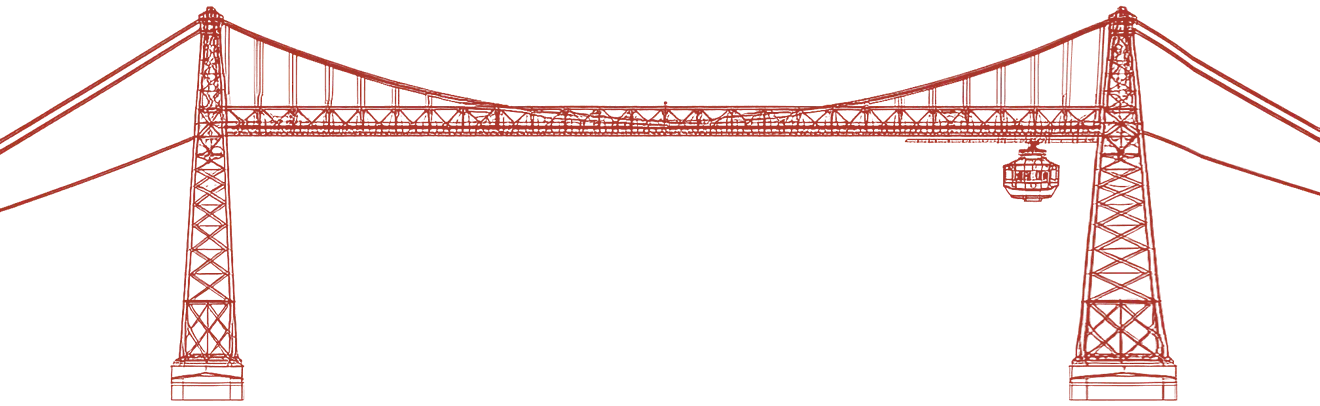
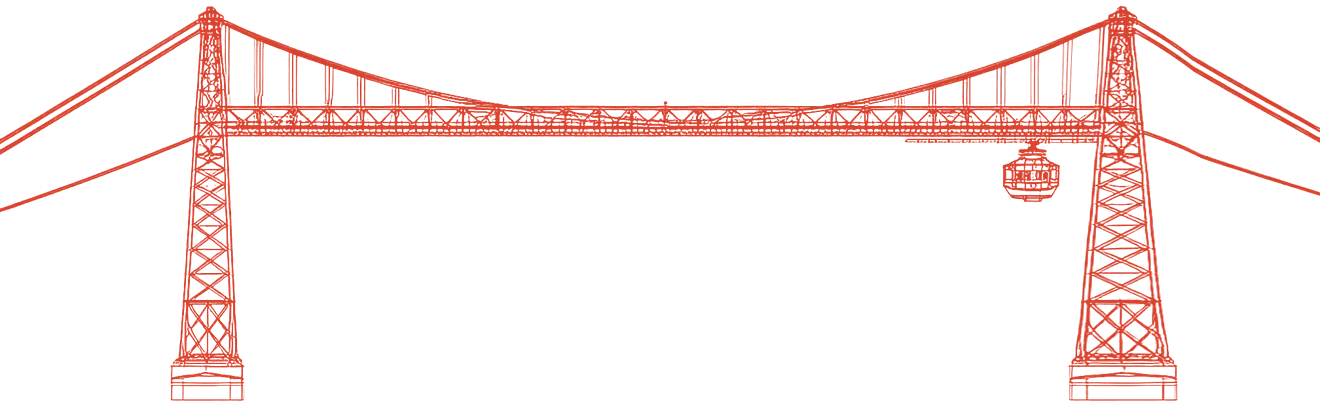
feat(integration): the bridge starts after the seal, in the section's red, under a lighter veil
The founder's notes on a 1575 × 791 screen (2026-10-02): the image overlapped
the cube, the bridge barely showed while the lighthouse "destaca de cojones",
the connectors' red was far brighter than the bridge's, the names outshone the
copy, the veil was too heavy, and the bridge could rise a little more.

- The frame starts at the seal's right vertex. What lies left of it is cut
  with a 60 px fade (--bclip). The scene shrinks only if the Portugalete tower
  itself would be cut, which happens at 1440 × 900.
- The drawing is tinted #D8432F, a step under the section's #EA4335, so the
  bridge and its connectors read as one thing.
- The veil is now a per-scene token. The radar keeps 78 %; the bridge sets 60 %
  (42 % mid-fade). Measured at percentile 1 at 1280, 1440, 1575, 1865 and
  3318 wide: body ≥ 8.4:1, quotation ≥ 7.1:1.
- Names drop to the console ink, under the excerpt's. Each sits on a plate of
  the band (90 %): a halo alone measured 3.5:1 over the Las Arenas façades;
  the plate gives ≥ 7.7:1.
- The frame rises off the band's floor, by at most 0.08 of its height, until
  a protocol still just fits between the excerpt and the girder at its
  highest point (by Las Arenas).
- Connectors: 12 at 1575 × 791 (7 above), 15 at 1440 × 900, 17 at
  3318 × 783, 7 on a phone.
- hero-bridge.css comments are trimmed to keep the CSS source at its
  150 KB budget.

diff --git a/src/styles/hero-bridge.css b/src/styles/hero-bridge.css
@@ -6,6 +6,9 @@
 	--bridge-c: var(--scene-c);
 	--color-ground-haze: var(--color-ground-haze-bridge);
 	--scene-phone-h: 76vw;
+	/* lighter than the lighthouse's veil (founder, 2026-10-02); the excerpt still reads ≥ 8.4:1 */
+	--scene-veil: 60%;
+	--scene-veil-mid: 42%;
 }
 
 /* the frame: the photograph's 3:2. Without the script it falls back to the right of the
@@ -18,12 +21,14 @@
 	width: var(--bw, min(60vw, 900px));
 	aspect-ratio: 3 / 2;
 	pointer-events: none;
+	/* the frame starts where the seal ends: the script sets --bclip, and the scene fades in over 60 px */
+	-webkit-mask-image: linear-gradient(90deg, transparent var(--bclip, 0px), var(--color-ground-dark) calc(var(--bclip, 0px) + 60px));
+	mask-image: linear-gradient(90deg, transparent var(--bclip, 0px), var(--color-ground-dark) calc(var(--bclip, 0px) + 60px));
 }
 .s-hero--bridge:not(.is-placed) .bridge__box { top: auto; bottom: 0; }
 
-/* the banks: cut off just under the tug (83 % of the frame), fading into the veil on the
-   left, into the haze over Las Arenas and into the band at the bottom (a mask reads only
-   alpha: any opaque token draws it) */
+/* the banks: cut just under the tug (83 % of the frame), fading at the sides and the bottom (a
+   mask reads only alpha: any opaque token draws it) */
 .bridge__banks {
 	position: absolute;
 	left: 0;
@@ -36,10 +41,8 @@
 	mask-composite: intersect;
 }
 
-/* the drawing: with the banks, under the veil like the lighthouse, in the bridge's own red (baked
-   into the raster: the connectors keep the section's). The raster is only the band the ink occupies (rows 378–998 of
-   the frame's 1344): a full frame outsized the banks and became the page's largest paint when it
-   faded in, at 2.7 s */
+/* the drawing (bridge_plan.py): only the band its ink occupies, rows 378–998 of 1344, so it never
+   outsizes the banks as the largest paint */
 .bridge__plan {
 	position: absolute;
 	left: 0;
@@ -89,15 +92,16 @@
 	font-weight: 500;
 	line-height: 1;
 	letter-spacing: .02em;
-	color: var(--color-secondary);
-	/* a halo of the band under each name, so it reads where it crosses the photograph */
-	text-shadow: 0 0 3px var(--color-ground-dark), 0 0 6px var(--color-ground-dark);
+	/* a step under the excerpt's ink: the names must not outshine the copy (founder, 2026-10-02) */
+	color: var(--color-console-ink);
+	/* a plate, so it reads over the photograph (≥ 7.7:1; a halo gave 3.5) */
+	padding: 2px 5px;
+	background: color-mix(in srgb, var(--color-ground-dark) 90%, transparent);
 }
 .bridge__plug--up > span { bottom: calc(100% + 18px); }
 .bridge__plug--down > span { top: calc(100% + 18px); }
 
-/* a message: a ball on the bus, in one of the six verticals' colours (the script sets --msg from the
-   CMS), ringed in paper so the navy one reads on the dark band */
+/* a message, in one of the six verticals' colours (--msg, from the CMS), ringed in paper */
 .bridge__msg {
 	position: absolute;
 	left: -6px;
@@ -109,8 +113,8 @@
 	outline: 1.5px solid color-mix(in srgb, var(--color-secondary) 75%, transparent);
 }
 
-/* the sequence, where a script runs it: the banks alone 1.2 s, then the bridge whole (opacity: the
-   compositor's, never a repaint), then every connector at once; the script then runs the messages */
+/* the sequence: the banks alone 1.2 s, the bridge whole (opacity, never a repaint), the connectors
+   at once, then the messages (the script) */
 @media (scripting: enabled) and (prefers-reduced-motion: no-preference) {
 	.s-hero--bridge:not(.is-placed) .bridge__box { visibility: hidden; }
 	.s-hero--bridge:not(.is-done) .bridge__plan { opacity: 0; }

diff --git a/src/styles/hero-scene.css b/src/styles/hero-scene.css
@@ -78,12 +78,13 @@
 
 /* the veil: the ground at 78 % under the column, gone 70 px past its right
    edge, so the art shows through dimmed (founder 2026-10-01; measured in
-   #529: body ≥ 4.5:1 at percentile 1; lighter is not available) */
+   #529: body ≥ 4.5:1 at percentile 1; lighter is not available for the
+   radar). A scene whose art allows it sets --scene-veil lighter (the bridge) */
 .s-hero--scene .s-hero__scrim {
 	position: absolute;
 	inset: 0;
 	pointer-events: none;
-	background-image: linear-gradient(90deg, color-mix(in srgb, var(--color-ground-dark) 78%, transparent) 0%, color-mix(in srgb, var(--color-ground-dark) 78%, transparent) calc(50% + var(--container-max) / 2 - 160px), color-mix(in srgb, var(--color-ground-dark) 55%, transparent) calc(50% + var(--container-max) / 2 - 40px), transparent calc(50% + var(--container-max) / 2 + 70px));
+	background-image: linear-gradient(90deg, color-mix(in srgb, var(--color-ground-dark) var(--scene-veil, 78%), transparent) 0%, color-mix(in srgb, var(--color-ground-dark) var(--scene-veil, 78%), transparent) calc(50% + var(--container-max) / 2 - 160px), color-mix(in srgb, var(--color-ground-dark) var(--scene-veil-mid, 55%), transparent) calc(50% + var(--container-max) / 2 - 40px), transparent calc(50% + var(--container-max) / 2 + 70px));
 }
 
 /* the controls: WCAG 2.2.2 — one checkbox stops everything that moves, one button replays it */

diff --git a/docs/design/hero-rotativo/bridge_plan.py b/docs/design/hero-rotativo/bridge_plan.py
@@ -8,9 +8,11 @@ issue). Steps:
 2. the Las Arenas tower is moved onto the photograph's: FLUX drew it about 10 px left at the top
    and 45 px narrower at the base than the tower it replaces (landmarks in bridge.py), so each row
    of it is stretched between the photograph's legs, fading back to the drawing 80 px either side;
-3. tinted the bridge's own red, deep and saturated (#A8352B) — darker than its lit side, which read
-   as salmon on the band (founder, 2026-10-02: "el puente más oscuro"); the stroke is the drawing's
-   own, fine like the lighthouse's: thickened, it read as a smudge;
+3. tinted a step under the section's red (#D8432F against #EA4335): the bridge and its connectors
+   read as one thing, and the drawing stands out on the band like the lighthouse (founder,
+   2026-10-02: "tiene que destacar… ambos colores bastante similares"; the deep #A8352B before it
+   barely showed through the veil). The stroke is the drawing's own, fine like the lighthouse's:
+   thickened, it read as a smudge;
 4. cut to the band the ink occupies (rows 378-998), so the drawing never outsizes the banks and
    never becomes the page's largest paint.
 
@@ -20,7 +22,7 @@ import os, sys
 import numpy as np
 from PIL import Image
 
-RED = (0xA8, 0x35, 0x2B)
+RED = (0xD8, 0x43, 0x2F)
 TOP, BOTTOM = 378, 998
 # the Las Arenas tower's outer legs: the drawing's, measured on its alpha, and the photograph's (bridge.py)
 DRAWN = ((405, 1685, 1725), (870, 1670, 1753))

diff --git a/docs/design/hero-rotativo/README.md b/docs/design/hero-rotativo/README.md
@@ -83,7 +83,7 @@ column, `cdn-faro-720.webp` and `cdn-faro-plan-660.webp`). The photograph is not
 | `cdn-faro.webp` | Faro de Cabo Peñas, Gozón, Asturias (cropped, antenna mast painted out, cut out to the building for the dark band) | [Einaz80, Wikimedia Commons, "Cape Penas Lighthouse.jpg"](https://commons.wikimedia.org/wiki/File:Cape_Penas_Lighthouse.jpg) | CC BY-SA 4.0 |
 | `cdn-faro-plan.webp` | A line drawing generated from the photograph's cutout (Workers AI, FLUX.2 [dev]; the pipeline is in the design thread of #529) | derivative of the above | CC BY-SA 4.0 |
 | `int-puente.webp`, `int-puente-960.webp` | The Vizcaya Bridge between Portugalete and Las Arenas, seen from Portugalete: the bridge and the sky taken out (Workers AI, FLUX.2 [dev] as a donor inside a mask cut from the difference; the original's own pixels everywhere else), cut off just under the tug | [Ebaki, Wikimedia Commons, "Bizkaia zubia - Puente Bizkaia.jpg"](https://commons.wikimedia.org/wiki/File:Bizkaia_zubia_-_Puente_Bizkaia.jpg) | CC BY-SA 4.0 |
-| `int-puente-plan.webp`, `int-puente-plan-960.webp` | The bridge as an architect's elevation, on the same frame (Workers AI, FLUX.2 [dev] from the photograph's bridge cut-out, seed 21), the Las Arenas tower moved onto the photograph's, ink to alpha in the bridge's deep red (#A8352B), cut to the band the ink occupies — `bridge_plan.py` | derivative of the above | CC BY-SA 4.0 |
+| `int-puente-plan.webp`, `int-puente-plan-960.webp` | The bridge as an architect's elevation, on the same frame (Workers AI, FLUX.2 [dev] from the photograph's bridge cut-out, seed 21), the Las Arenas tower moved onto the photograph's, ink to alpha a step under the section's red (#D8432F), cut to the band the ink occupies — `bridge_plan.py` | derivative of the above | CC BY-SA 4.0 |
 | `src/assets/hero/int-puente.svg` | The bridge's outline, built by `bridge.py` from points measured on that photograph: never drawn, the hero measures it to keep the drawing off the copy | derivative of the above | CC BY-SA 4.0 |
 
 CC BY-SA asks for attribution where the work is used and share-alike on derivatives. The
